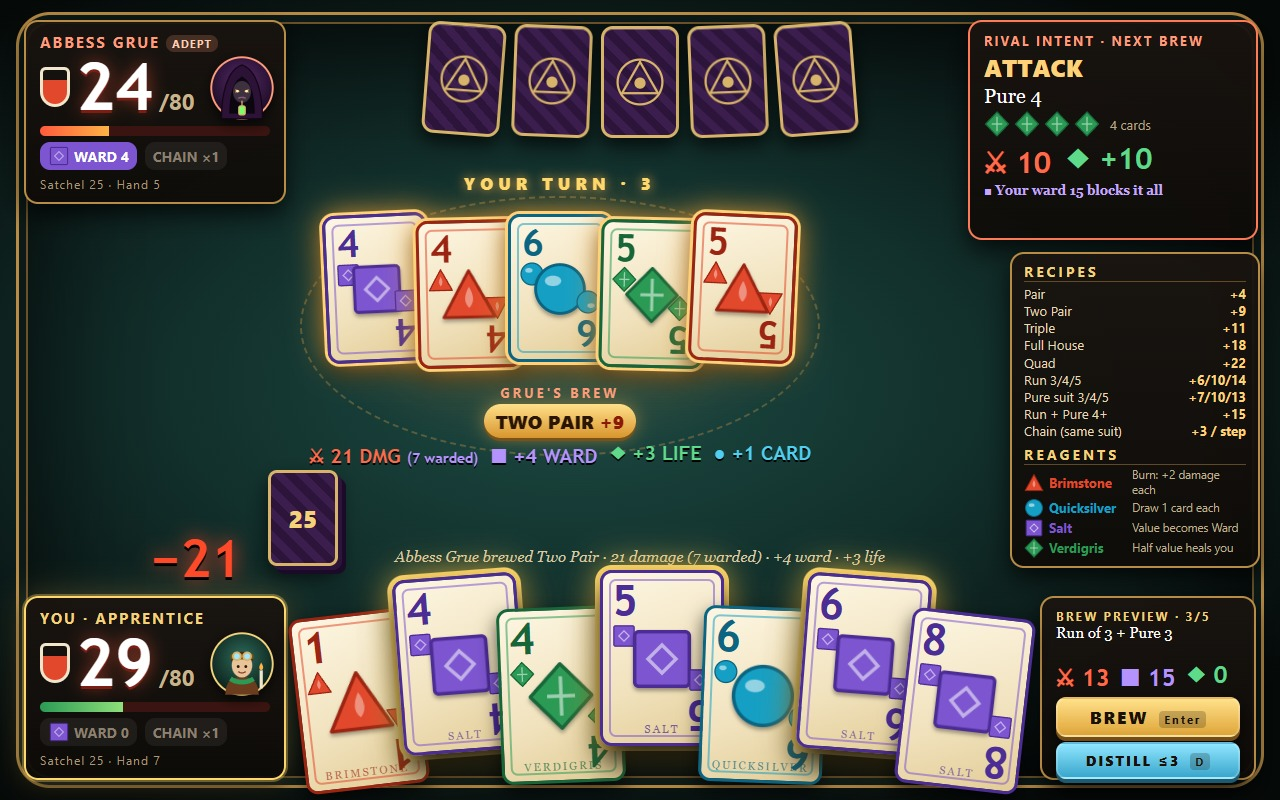
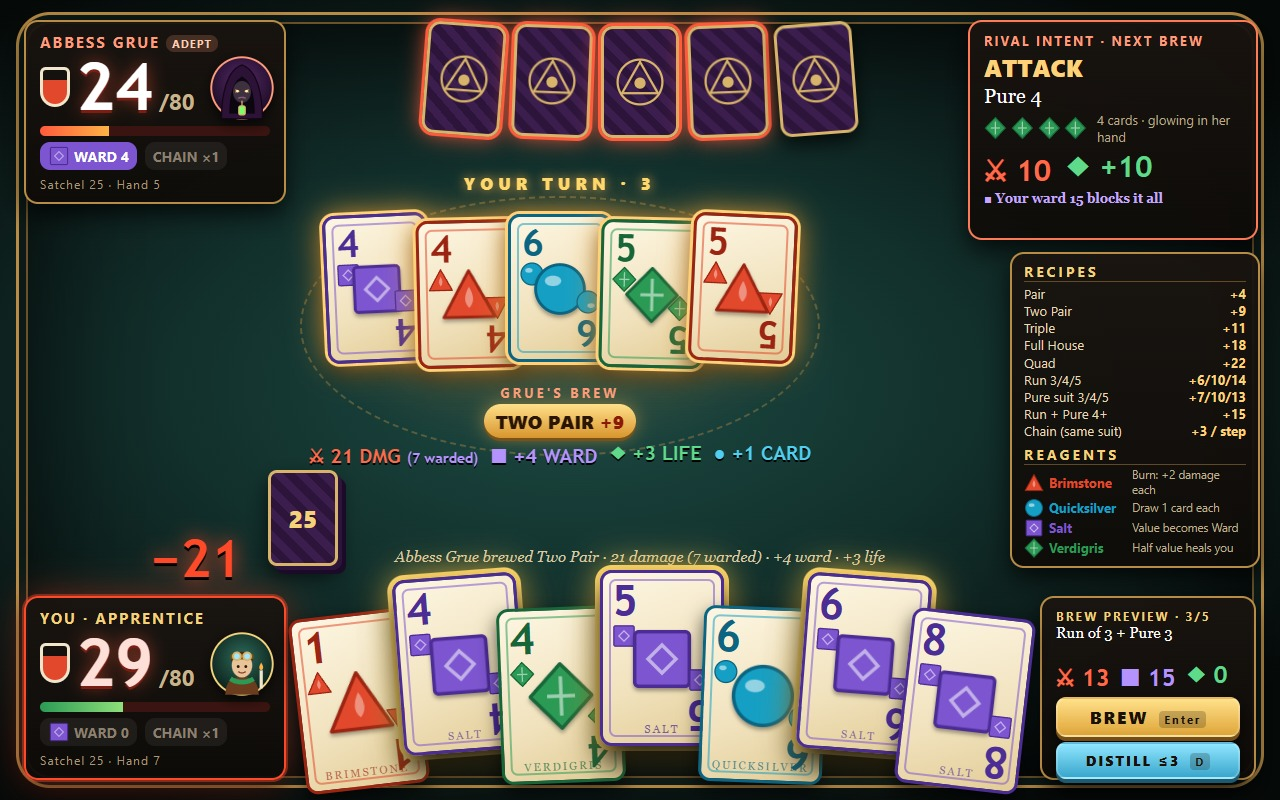
Rival's primed cards glow to match her intent; hit glow on your vitality panel

diff --git a/game/src/table-render.js b/game/src/table-render.js
@@ -34,8 +34,8 @@ export function handSlots(count, centerX = 640, cardW = HAND_CARD_W, span = 780)
   return Array.from({ length: count }, (_, i) => ({ x: left + gap * i, rot: (i - (count - 1) / 2) * 2.2, lift: Math.abs(i - (count - 1) / 2) * 3 }));
 }
 
-function lifePanel(side, who, isTurn, level) {
-  const p = el('div', `panel life-panel ${who}${isTurn ? ' active' : ''}`);
+function lifePanel(side, who, isTurn, level, hurt = false) {
+  const p = el('div', `panel life-panel ${who}${isTurn ? ' active' : ''}${hurt ? ' hurt' : ''}`);
   const pct = Math.max(0, side.life / START_LIFE) * 100;
   const title = who === 'rival' ? `ABBESS GRUE<span class="level-tag">${(DIFFICULTIES[level] || DIFFICULTIES.adept).name.toUpperCase()}</span>` : 'YOU · APPRENTICE';
   p.innerHTML = `
@@ -74,7 +74,7 @@ function intentPanel(state, ui) {
     <div class="intent-head">RIVAL INTENT · NEXT BREW</div>
     <div class="intent-mood${threat}">${threat ? 'LETHAL!' : intent.mood.toUpperCase()}</div>
     <div class="intent-title">${b.title}</div>
-    <div class="intent-glyphs">${glyphs}<span class="intent-count">${intent.cards.length} cards</span></div>
+    <div class="intent-glyphs">${glyphs}<span class="intent-count">${intent.cards.length} cards · glowing in her hand</span></div>
     <div class="intent-nums">
       <span class="dmg">⚔ ${b.damage}</span>
       ${b.ward ? `<span class="wrd">■ +${b.ward}</span>` : ''}
@@ -146,7 +146,8 @@ export function renderTable(root, state, ui) {
   table.append(el('div', 'crucible'));
 
   table.append(place(lifePanel(state.rival, 'rival', state.phase === 'rival', state.difficulty), 24, 20));
-  table.append(place(lifePanel(state.player, 'player', state.phase === 'player'), 24, 596));
+  const playerHurt = state.phase === 'player' && state.lastBrew?.by === 'rival' && state.lastBrew.dealt > 0;
+  table.append(place(lifePanel(state.player, 'player', state.phase === 'player', null, playerHurt), 24, 596));
   table.append(place(intentPanel(state, ui), 968, 20));
   table.append(place(recipeBook(), 1010, 252));
   table.append(place(previewPanel(state, ui), 1040, 596));
@@ -156,7 +157,7 @@ export function renderTable(root, state, ui) {
     const card = state.rival.hand[i];
     const back = place(makeCardBack(card.id), slot.x, 26 - slot.lift * 0.5, -slot.rot);
     back.classList.add('small');
-    if (ui.shot !== 'table' && state.rival.intent && state.rival.intent.cards.some((c) => c.id === card.id)) back.classList.add('primed');
+    if (state.rival.intent && state.rival.intent.cards.some((c) => c.id === card.id)) back.classList.add('primed');
     table.append(back);
   });
 

diff --git a/game/style.css b/game/style.css
@@ -179,3 +179,6 @@ html, body { margin: 0; height: 100%; background: #07090a; overflow: hidden; fon
 .title-rival em { font: italic 15px Georgia, serif; letter-spacing: 1px; color: #d9c9a4; }
 .life-panel .level-tag { font-size: 11px; padding: 1px 6px; margin-left: 6px; border-radius: 8px; background: #ff9b7a33; color: #ffcdb8; letter-spacing: 1px; }
 .title-rival.you { right: auto; left: 70px; color: #f3d27a; }
+.life-panel.hurt { border-color: #ff4a2a; box-shadow: 0 0 0 2px #ff4a2a66, 0 0 36px #ff4a2a66, 0 10px 24px #000b; }
+.life-panel.hurt .life-num { color: #ffe0d8; }
+.primed-note { font: bold 12px 'Segoe UI', sans-serif; letter-spacing: 2px; color: #ff9b7a; text-align: center; width: 200px; }
